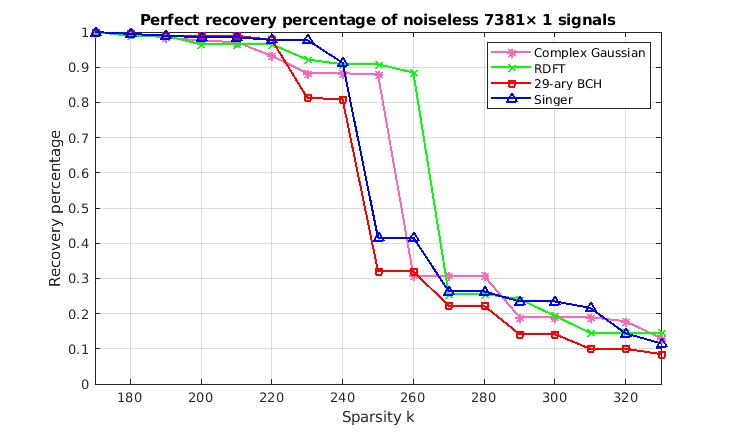
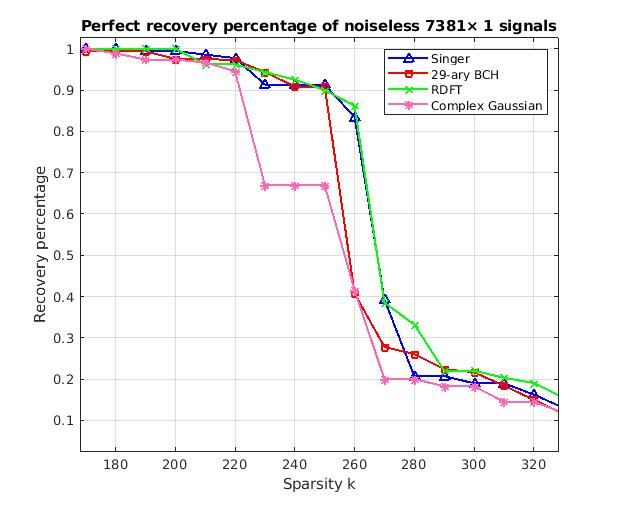
- Fixed bugs, improved performance

diff --git a/compressed_sensing.m b/compressed_sensing.m
@@ -56,6 +56,7 @@ function compressed_sensing(n,m, type, initial_sparsity, final_sparsity, step_si
         end
         novel_matrix = novel_matrix(1:other_row,1:n);
     end
+    bch = gen_bch_matrix(n, initial_sparsity, p_ary);
     plot_x = 1:1:final_sparsity;
 
     % Test for different sparsity levels
@@ -106,7 +107,6 @@ function compressed_sensing(n,m, type, initial_sparsity, final_sparsity, step_si
 
             % **********************BCH***********************
             % Creating a bch matrix
-            bch = gen_bch_matrix(n, s, p_ary);
             bch = bch(1:bch_row,:);
             % Recovery
             bch_percentage = sensing_matrix_method(bch, signal, noisy_signal, s, n);
